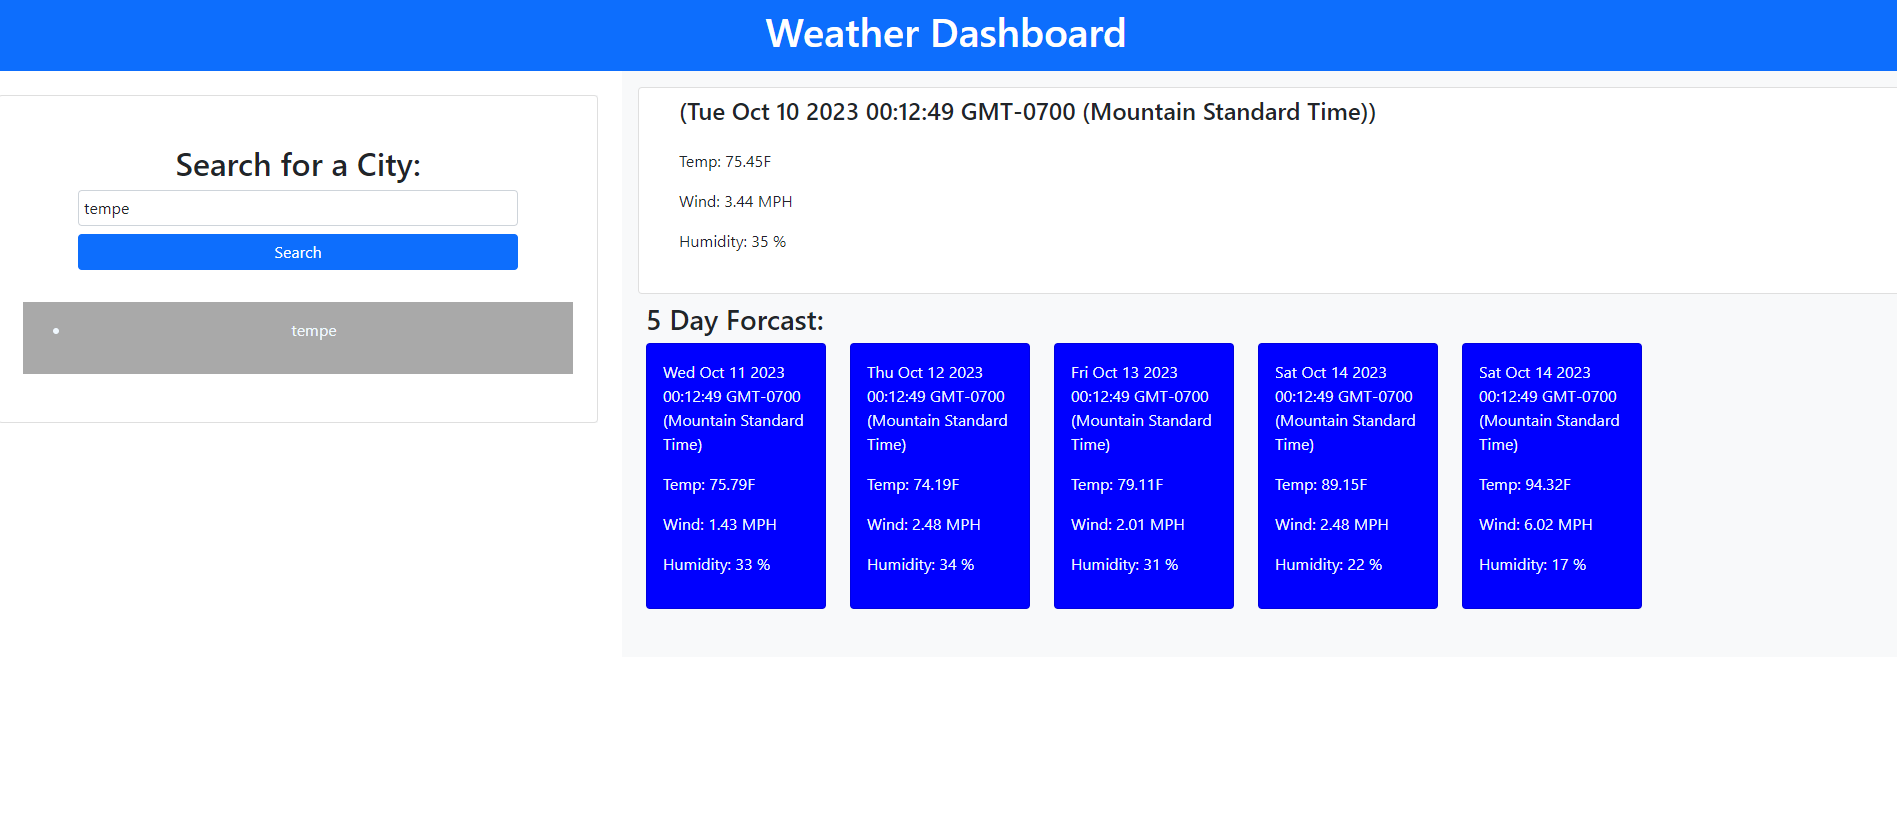
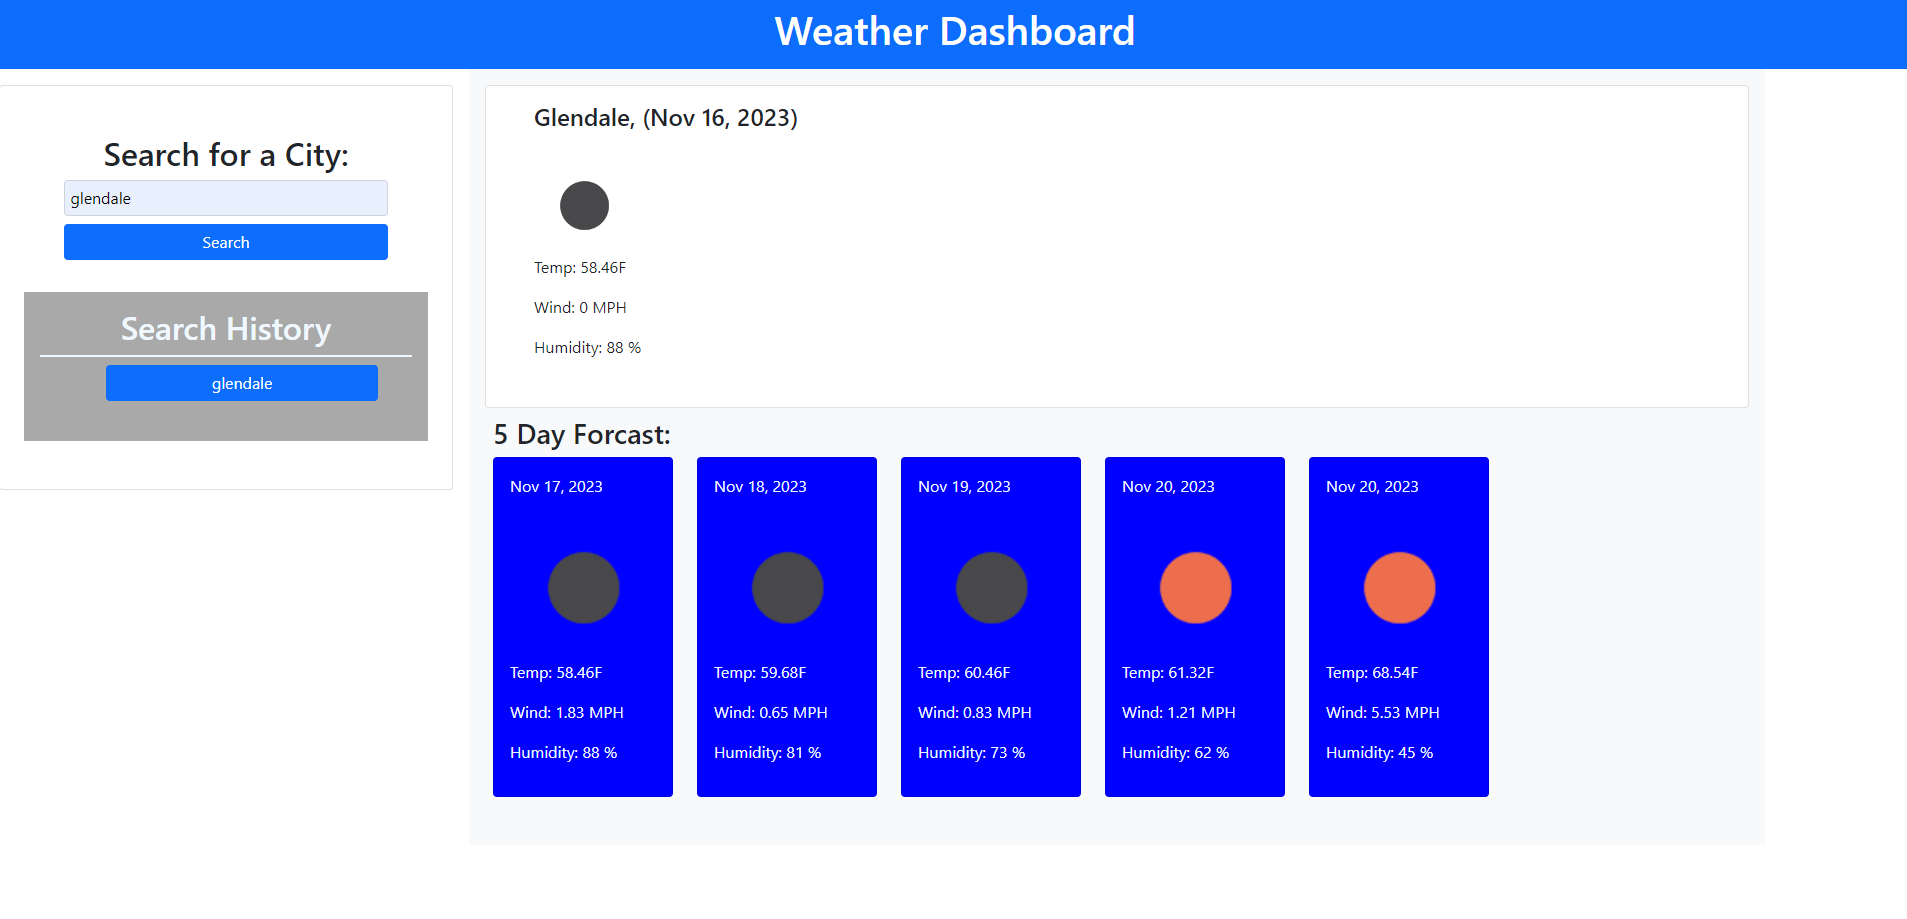
updated date format on forcast

diff --git a/assets/script.js b/assets/script.js
@@ -14,27 +14,22 @@ var displayForecastTwo = document.querySelector('#forecast-two');
 var displayForecastThree = document.querySelector('#forecast-three');
 var displayForecastFour = document.querySelector('#forecast-four');
 var displayForecastFive = document.querySelector('#forecast-five');
+//History
+
 //---- day dates
 var savedCitys = [];
 
 var today = dayjs().format('MMM D, YYYY');
-//var today = new Date();//.toDateString();
-var tomorrow1 = new Date(today);
-tomorrow1.setDate(tomorrow1.getDate() + 1);
-var tomorrow2 = new Date(tomorrow1);
-tomorrow2.setDate(tomorrow2.getDate() + 1);
-var tomorrow3 = new Date(tomorrow2);
-tomorrow3.setDate(tomorrow3.getDate() + 1);
-var tomorrow4 = new Date(tomorrow3);
-tomorrow4.setDate(tomorrow4.getDate() + 1);
-var tomorrow5 = new Date(tomorrow4);
-tomorrow5.setDate(tomorrow5.getDate() + 1);
-
-//})
+var tomorrow1 = dayjs(today).add(1, 'day').format('MMM D, YYYY');
+var tomorrow2 = dayjs(tomorrow1).add(1, 'day').format('MMM D, YYYY');
+var tomorrow3 = dayjs(tomorrow2).add(1, 'day').format('MMM D, YYYY');
+var tomorrow4 = dayjs(tomorrow3).add(1, 'day').format('MMM D, YYYY');
+var tomorrow5 = dayjs(tomorrow4).add(1, 'day').format('MMM D, YYYY');
 
 //------------------------
 function handleCitySearch(){
     var userInput = cityInput.value.trim();
+    
 requestCoord(userInput);
 }
 function handleCityHistory(){
@@ -46,6 +41,8 @@ requestCoord(userInput);
 // coords endpoint for city search
 function requestCoord(cityInput){
    var cityCoords = `https://api.openweathermap.org/geo/1.0/direct?q=${cityInput},&limit=1&appid=${apiKey}`
+
+
    
    fetch(cityCoords)
    .then(function (response) {
@@ -69,7 +66,9 @@ function requestCoord(cityInput){
     localStorage.setItem("City Coords Lon", fetchedCoords[0].lon);/////
     }
     
-    var cityName = document.createElement('li');
+    var cityName = document.createElement('button');
+    cityName.setAttribute("class", "btn btn-primary m-2");
+    cityName.setAttribute("style", "width: 80%; padding: 5px; margin-left:10%;");
     cityName.textContent = (cityInput);
     searchHistoryTable.append(cityName);
     
@@ -101,25 +100,29 @@ function requestWeather(latCity, lonCity) {
 
         
         //--- weather icon
-            // var iconId = localStorage.getItem("icon");
-          
+
             var currentCity = localStorage.getItem("City Name");
             var cityDay = document.createElement('h4');
             cityDay.textContent = (currentCity + ", (" + today + ")  ");
+            // displayDate.removeChild(cityDay);
             displayDate.appendChild(cityDay);
 
             var cityIcon = document.createElement('img');
             cityIcon.setAttribute("src", iconUrl);
+            // displayCurrentDay.removeChild(cityIcon);
             displayCurrentDay.appendChild(cityIcon);
 
             var cityTemp = document.createElement('p');
             cityTemp.textContent = ("Temp: " + (fecthedWeather.main.temp) + "F");
             displayCurrentDay.appendChild(cityTemp);
+            // displayCurrentDay.removeChild(cityTemp);
             var cityWind = document.createElement('p');
             cityWind.textContent = ("Wind: " + (fecthedWeather.wind.speed) + " MPH");
+            // displayCurrentDay.removeChild(cityWind);
             displayCurrentDay.appendChild(cityWind);
             var cityHumidity = document.createElement('p');
             cityHumidity.textContent =("Humidity: " + (fecthedWeather.main.humidity) + " %");
+            // displayCurrentDay.removeChild(cityHumidity);
             displayCurrentDay.appendChild(cityHumidity);
         
         })    
@@ -143,13 +146,13 @@ function requestForcast(latCity, lonCity) {
         var iconUrl2 =(`https://openweathermap.org/img/wn/${fecthedForecast.list[2].weather[0].icon}@2x.png`);
         var iconUrl3 =(`https://openweathermap.org/img/wn/${fecthedForecast.list[3].weather[0].icon}@2x.png`);
         var iconUrl4 =(`https://openweathermap.org/img/wn/${fecthedForecast.list[4].weather[0].icon}@2x.png`);
-        // for (var i = 0; i < fecthedForecast.length; i++){
          //console.log(fecthedWeather[i])//all
          localStorage.setItem("date", fecthedForecast.list[0].dt_txt);//date
          localStorage.setItem("icon", fecthedForecast.list[0].weather[0].icon);
          localStorage.setItem("Tempature", fecthedForecast.list[0].main.temp);
          localStorage.setItem("Wind Speed", fecthedForecast.list[0].wind.speed);
          localStorage.setItem("hHumidity", fecthedForecast.list[0].main.humidity);
+         
 //forecast one:
             var forecastDate = document.createElement('p');
             forecastDate.textContent = (tomorrow1);
@@ -171,7 +174,6 @@ function requestForcast(latCity, lonCity) {
             forecastHumidity.textContent = ("Humidity: " + (fecthedForecast.list[0].main.humidity) + " %");
             displayForecastOne.appendChild(forecastHumidity);
 
-           
 //forecast two:
             var forecastDate = document.createElement('p');
             forecastDate.textContent = (tomorrow2);
@@ -188,6 +190,7 @@ function requestForcast(latCity, lonCity) {
             var forecastHumidity = document.createElement('p');
             forecastHumidity.textContent = ("Humidity: " + (fecthedForecast.list[1].main.humidity) + " %");
             displayForecastTwo.appendChild(forecastHumidity);
+            
 //forecast three:
             var forecastDate = document.createElement('p');
             forecastDate.textContent = (tomorrow3);
@@ -204,6 +207,7 @@ function requestForcast(latCity, lonCity) {
             var forecastHumidity = document.createElement('p');
             forecastHumidity.textContent = ("Humidity: " + (fecthedForecast.list[2].main.humidity) + " %");
             displayForecastThree.appendChild(forecastHumidity);
+
 //forecast four:
             var forecastDate = document.createElement('p');
             forecastDate.textContent = (tomorrow4);
@@ -220,6 +224,7 @@ function requestForcast(latCity, lonCity) {
             var forecastHumidity = document.createElement('p');
             forecastHumidity.textContent = ("Humidity: " + (fecthedForecast.list[3].main.humidity) + " %");
             displayForecastFour.appendChild(forecastHumidity);
+
 //forecast five:
             var forecastDate = document.createElement('p');
             forecastDate.textContent = (tomorrow4);
@@ -236,7 +241,6 @@ function requestForcast(latCity, lonCity) {
             var forecastHumidity = document.createElement('p');
             forecastHumidity.textContent = ("Humidity: " + (fecthedForecast.list[4].main.humidity) + " %");
             displayForecastFive.appendChild(forecastHumidity);
-
 
         })
     }

diff --git a/index.html b/index.html
@@ -22,7 +22,7 @@
         <section class="container1">
             <div class="text-center">
                 <div class="row">
-                    <div class="col-4 p-4">
+                    <div class="col-3 p-3">
                         <section class="flex-row justify-center align-center bg-light">
                             <section class="card card-rounded col-12 bg-white p-4">
                                 <div class="text-center pt-4">
@@ -32,6 +32,7 @@
                                     <button type="button" id="btn-search" class="btn btn-primary m-2"style="width: 80%; padding: 5px; margin-left:10%;">Search</button>
                                   </form>
                                   <div class="card-body table mx-auto my-4 cb1">
+                                    <h2>Search History</h3>
                                         <ul id="search-history-table" class="mx-auto text-center"></ul>
                                   </div>
                                 </div>
@@ -40,7 +41,7 @@
                     </div>
                     
                     <div class="col-8 p-3 bg-light">
-                        <div class="p-2 card card-rounded" style="text-align: left;">
+                        <div class="p-3 card card-rounded" style="text-align: left;">
                           <ul id ="display-date"></ul>
                           <ul id="display-current-forecast">
                      

diff --git a/README.md b/README.md
@@ -64,4 +64,3 @@ Current Weather Data:
 * AskBCS Learning Assistant
 * Tutoring Session
 * StudyGroup
-* Google Search
